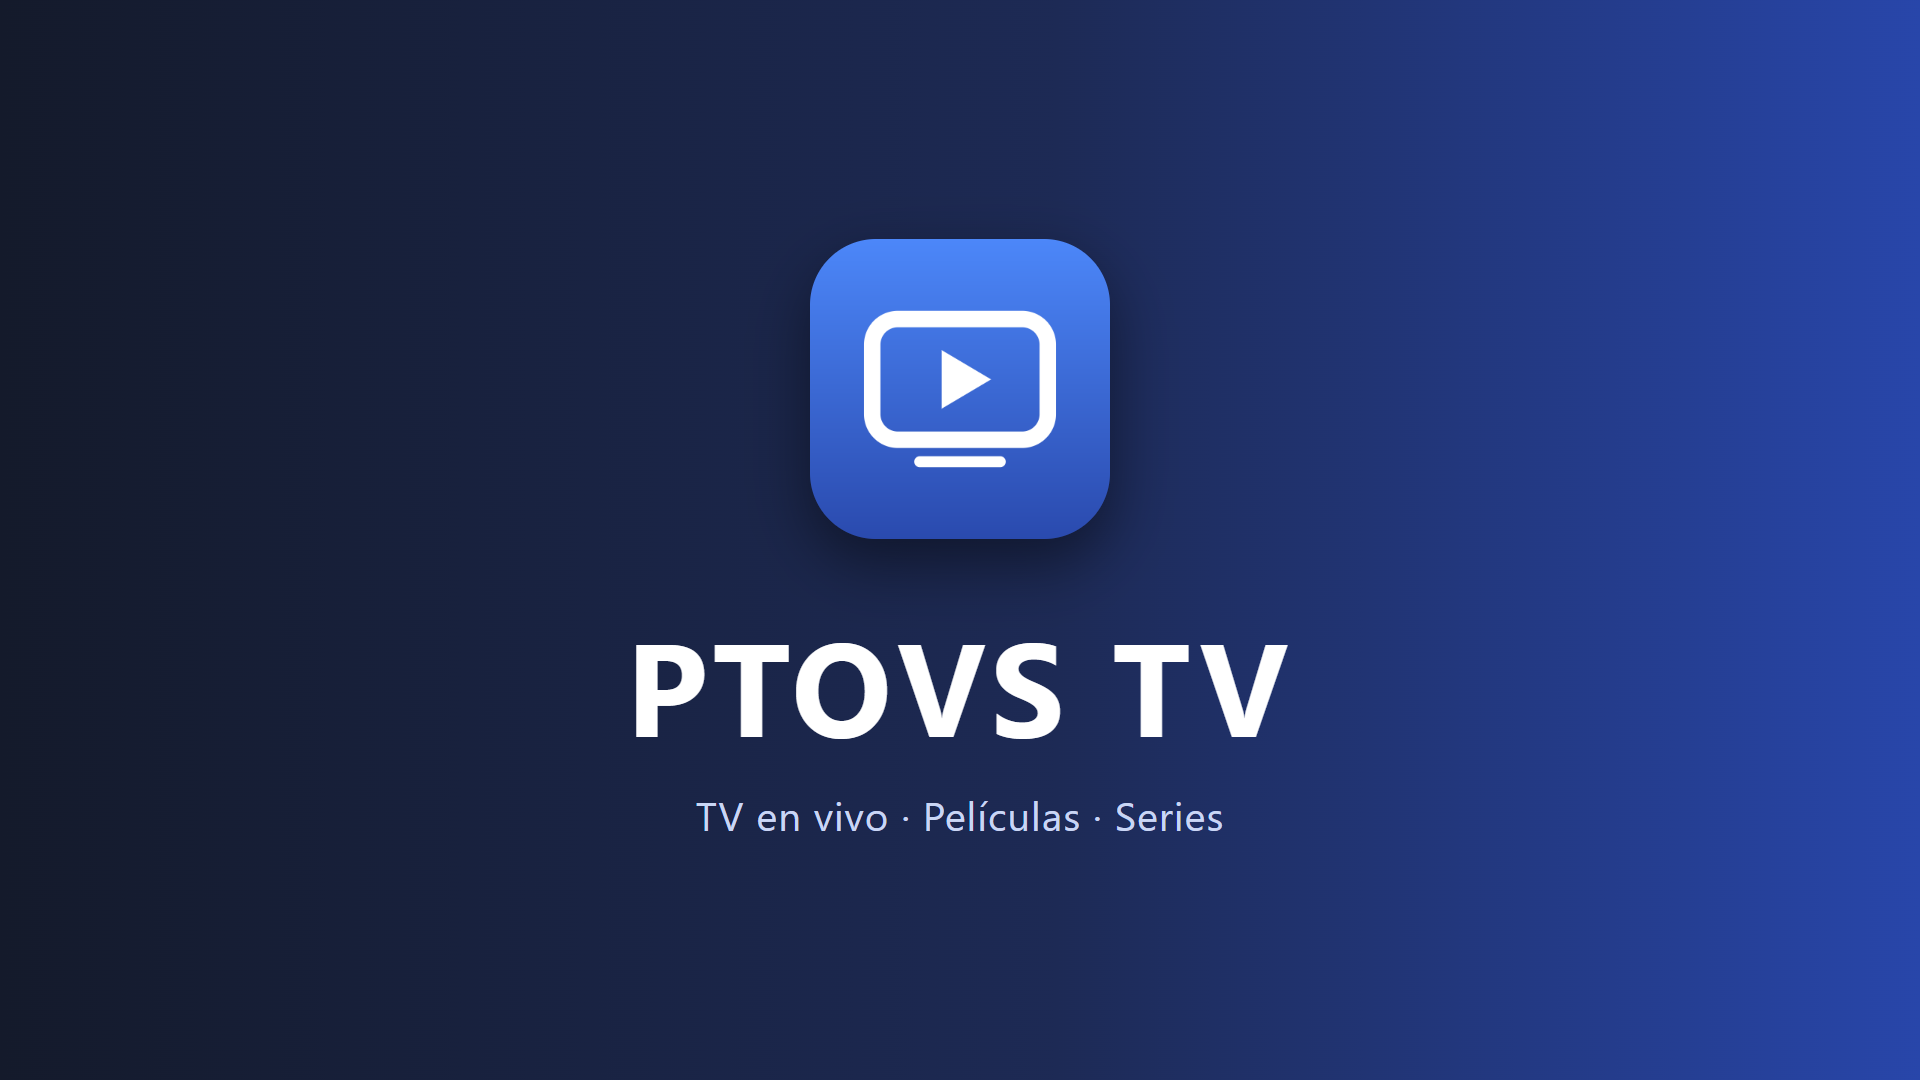
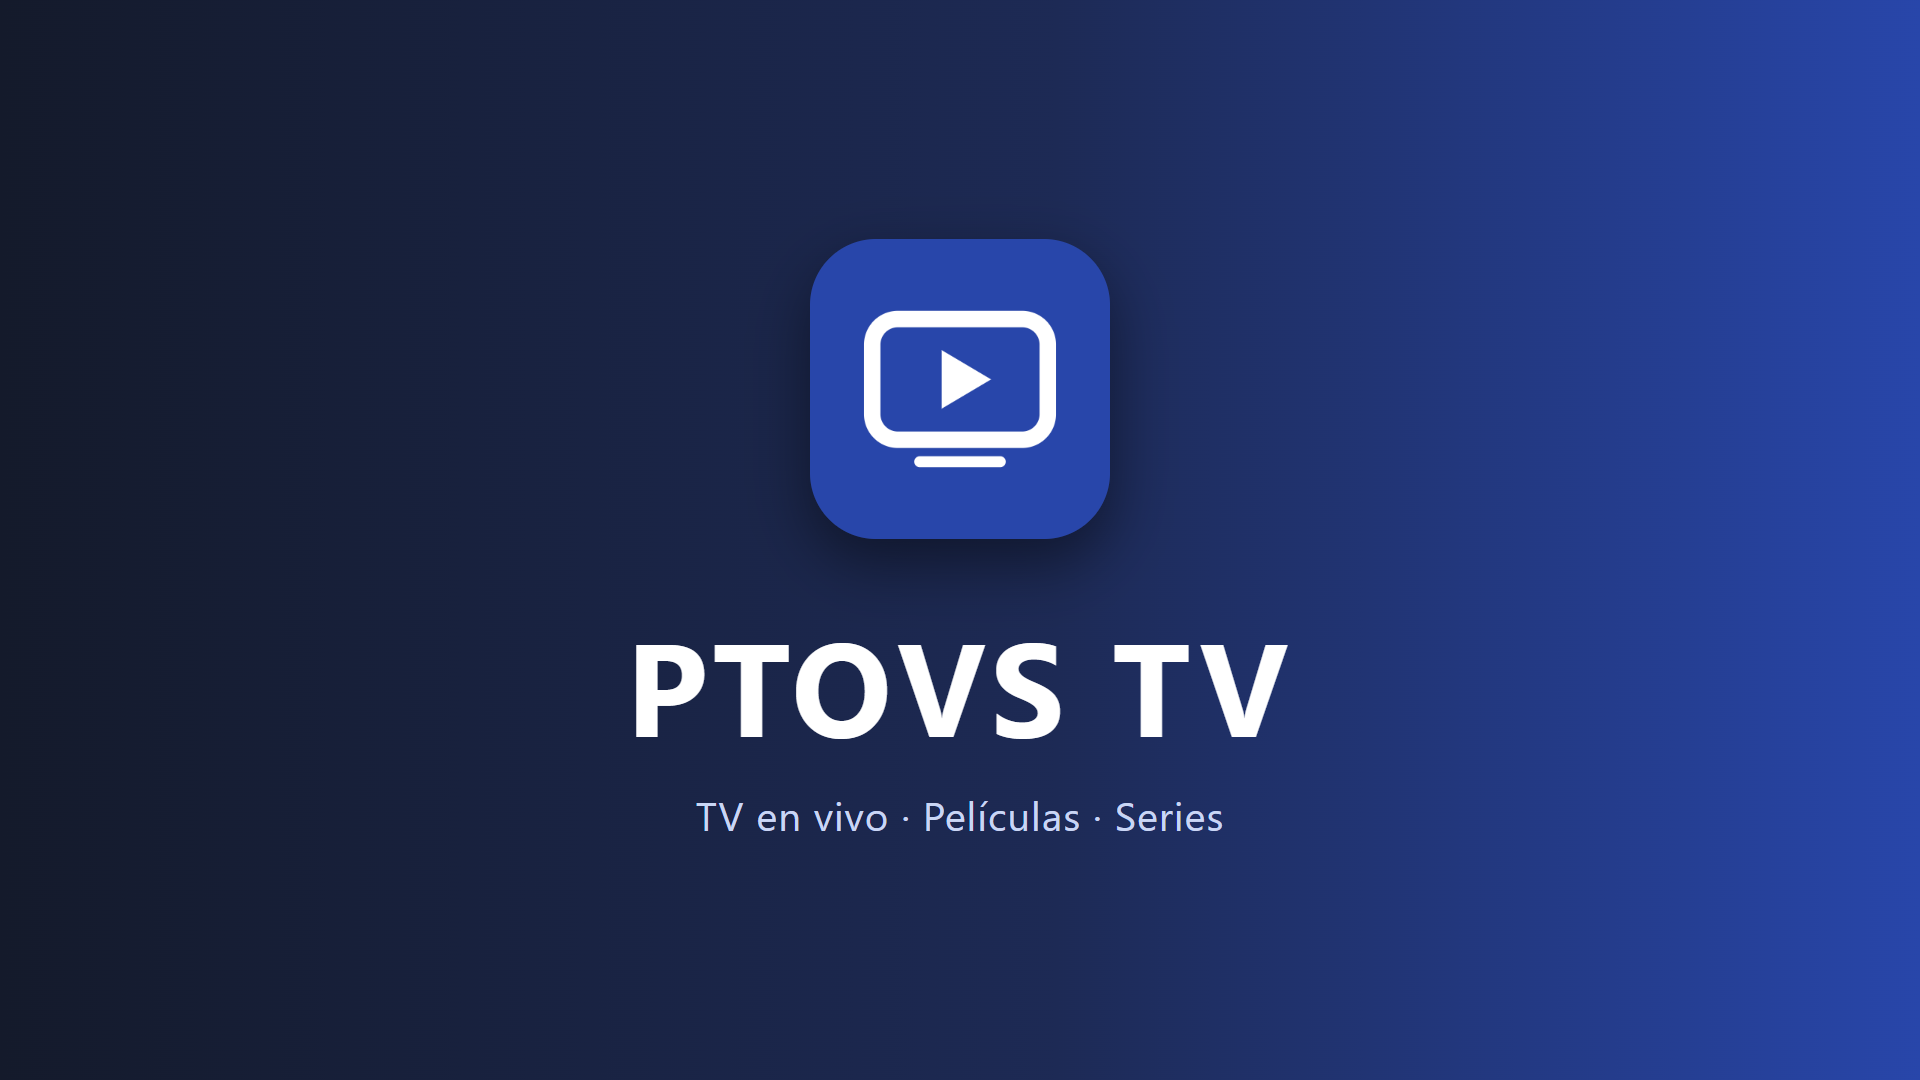
LG: icono con fondo liso del color del mosaico (sin degradado)

Changed region(s): [[0.4062, 0.2139, 0.5938, 0.4278]]

diff --git a/tv/scripts/make-icons.js b/tv/scripts/make-icons.js
@@ -116,10 +116,13 @@ function renderIcon(src, m, w, h) {
   return out;
 }
 
-/* Icono cuadrado a sangre (LG): degradado vertical y logotipo centrado, sin esquinas ni transparencia */
-function renderSquare(m, w, h) {
+/*
+ * Icono cuadrado a sangre (LG): color liso y logotipo centrado, sin esquinas, transparencia ni degradado.
+ * LG pide que el fondo del icono sea del mismo color que el mosaico (operator.json → webos.iconColor).
+ */
+function renderSquare(m, w, h, tile) {
   const out = png.createImage(w, h);
-  draw.gradient(out, m.top, m.bottom, 'vertical');
+  draw.gradient(out, tile, tile, 'vertical');
   const size = Math.min(w, h);
   const unit = m.glyph.unitRatio * size;
   const [bx0, by0, bx1, by1] = draw.GLYPH_BOUNDS;
@@ -135,10 +138,10 @@ function textBlock(img, name, centerX, top, maxWidth, cell, color) {
   return c * 7;
 }
 
-function render(target, src, m, banner, name) {
+function render(target, src, m, banner, name, tile) {
   const { w, h, kind } = target;
   if (kind === 'icon') return renderIcon(src, m, w, h);
-  if (kind === 'square') return renderSquare(m, w, h);
+  if (kind === 'square') return renderSquare(m, w, h, tile || m.bottom);
 
   const bg = png.createImage(w, h);
   if (kind === 'background' || kind === 'splash' || kind === 'tile') {
@@ -175,8 +178,11 @@ function main() {
   const args = process.argv.slice(2);
   const opIndex = args.indexOf('--operator');
   let name = 'IPTV Player';
+  let tile = null;
   try {
-    name = loadOperator(opIndex >= 0 ? args[opIndex + 1] : null).data.appName || name;
+    const op = loadOperator(opIndex >= 0 ? args[opIndex + 1] : null).data;
+    name = op.appName || name;
+    if (op.webos && /^#[0-9a-f]{6}$/i.test(op.webos.iconColor || '')) tile = draw.hex(op.webos.iconColor);
   } catch (e) {
     console.warn(`Aviso: ${e.message} Se usa el nombre "${name}".`);
   }
@@ -196,7 +202,7 @@ function main() {
         console.log(`${path.relative(TV_DIR, file).padEnd(44)} (se conserva; --force para redibujarla)`);
         continue;
       }
-      const img = render(t, src, m, banner, name);
+      const img = render(t, src, m, banner, name, tile);
       const alpha = t.alpha !== false;
       const buf = png.encode(alpha ? img : png.flatten(img, [11, 15, 23]), { alpha });
       fs.mkdirSync(path.dirname(file), { recursive: true });

diff --git a/docs/TV-TIENDAS.md b/docs/TV-TIENDAS.md
@@ -239,7 +239,8 @@ Apps alojadas en un servidor (*hosted*) no están permitidas salvo excepciones: 
 
 Otros puntos de la lista oficial de LG (`self_evaluation_checklist_5.0.xlsx`, hoja «Other Check Points»):
 
-- **Icono cuadrado, sin esquinas redondeadas y sin fondo transparente** (si no, rechazo). `npm run icons` ya los
+- **Icono cuadrado, sin esquinas redondeadas, sin fondo transparente ni degradado, del mismo color que el mosaico**
+  (App Tile Color `#2846aa`; si no, rechazo). `npm run icons` ya los
   genera así.
 - **Contenido pagado**: aunque no se pague dentro de la app, un servicio que se contrata fuera cuenta como
   contenido pagado: en Seller Lounge marque **Subscription** y explíquelo en el documento de uso (lo hace

diff --git a/tv/README.md b/tv/README.md
@@ -193,7 +193,8 @@ fondo de LG (`assets/store/lg/background-1920x1080.png`; `npm run icons` ya no l
 Con el televisor en modo desarrollador también se pueden tomar del LG real: `ares-device --capture-screen`.
 
 **LG**: los iconos (`webos/icon.png`, `webos/largeIcon.png` y `lg/icon-400x400.png`) son cuadrados, sin esquinas
-redondeadas y sin transparencia: la lista de verificación de LG rechaza los redondeados o transparentes.
+redondeadas, sin transparencia y con fondo liso del color del mosaico (`operator.json` → `webos.iconColor`): LG
+rechaza los redondeados, transparentes o con degradado.
 
 **Documentos para la revisión de LG**:
 
